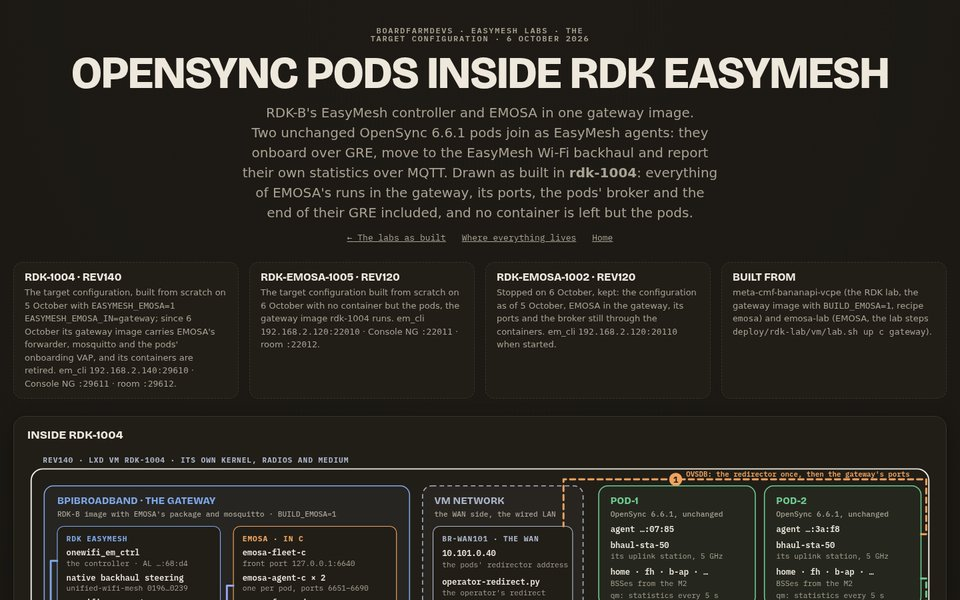
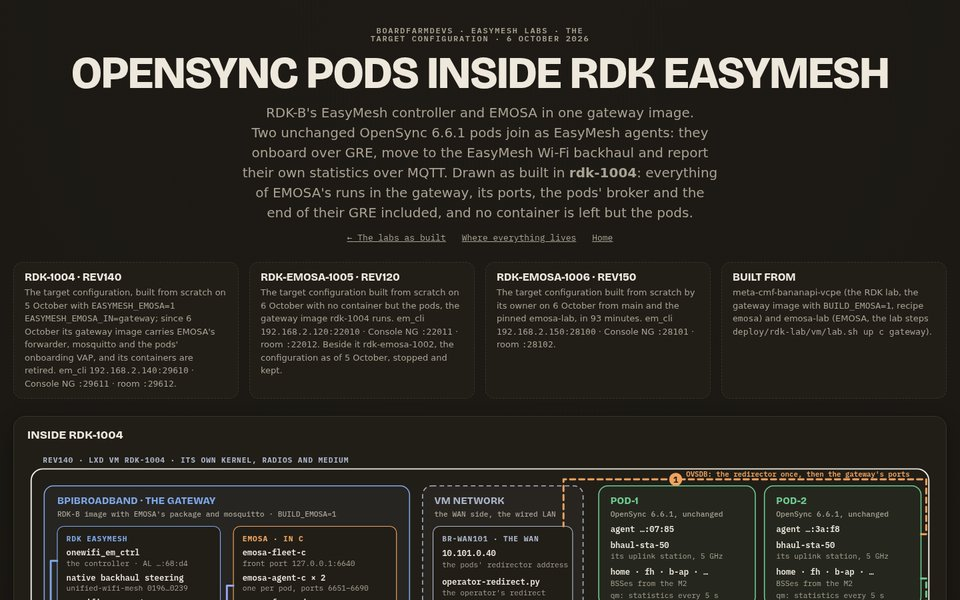
Poster rdk-emosa: every em_agent's journal under its cap with the keys out (0242), rdk-emosa-1006 on rev150; both labs' new gateway and extender images recorded
The timeline: em_agent's document dumps and traces to em's debug channel and
the networks' passphrases out of its journal (unified-wifi-mesh 0242); both
target labs on the new gateway and extender images with no line dropped by
em_ctrl or any em_agent through a redeploy and the catalog. The open item on
the gateway's em_agent is closed. Host cards: rdk-emosa-1006 (rev150, built by
its owner); rdk-emosa-1002 folded into rdk-emosa-1005's card. Ports: 1006's.
manifest: emosa-lab b373ae6, meta-cmf cef71d7; rdk-1004 and rdk-emosa-1005 run
X86EMLTRBPIBB_rdk-next_20261006231122 and X86EMLTRBPIAP_rdk-next_20261006232411
(meta-cmf 4225e97); rdk-emosa-1006 the gateway image before and the 29
September extender image.

Changed region(s): [[0.5, 0.45, 0.7188, 0.6], [0.2812, 0.57, 0.4688, 0.63]]

diff --git a/site/posters/rdk-emosa.html b/site/posters/rdk-emosa.html
@@ -34,10 +34,11 @@
     <div class="host"><h3>rdk-emosa-1005 · rev120</h3><p>The target configuration built from scratch on
     6 October with no container but the pods, the gateway image rdk-1004 runs.
     em_cli <code>192.168.2.120:22010</code> · Console NG <code>:22011</code> ·
-    room <code>:22012</code>.</p></div>
-    <div class="host"><h3>rdk-emosa-1002 · rev120</h3><p>Stopped on 6 October, kept: the
-    configuration as of 5 October, EMOSA in the gateway, its ports and the broker still
-    through the containers. em_cli <code>192.168.2.120:20110</code> when started.</p></div>
+    room <code>:22012</code>. Beside it rdk-emosa-1002, the configuration as of 5 October,
+    stopped and kept.</p></div>
+    <div class="host"><h3>rdk-emosa-1006 · rev150</h3><p>The target configuration built from
+    scratch by its owner on 6 October from main and the pinned emosa-lab, in 93 minutes. em_cli
+    <code>192.168.2.150:28100</code> · Console NG <code>:28101</code> · room <code>:28102</code>.</p></div>
     <div class="host"><h3>Built from</h3><p>meta-cmf-bananapi-vcpe (the RDK lab, the gateway image with
     <code>BUILD_EMOSA=1</code>, recipe <code>emosa</code>) and emosa-lab (EMOSA, the lab steps
     <code>deploy/rdk-lab/vm/lab.sh up c gateway</code>).</p></div>
@@ -323,6 +324,7 @@
             <tr><td><code>169.254.2.1/25</code></td><td>the gateway's GTP: DHCP, the GRE remote</td><td><code>brpodbh</code>, with <code>wifi1.4</code></td></tr>
             <tr><td><code>192.168.2.140:29610/1/2</code></td><td>em_cli · Console NG · the room</td><td>rdk-1004</td></tr>
             <tr><td><code>192.168.2.120:22010/1/2</code></td><td>the same</td><td>rdk-emosa-1005</td></tr>
+            <tr><td><code>192.168.2.150:28100/1/2</code></td><td>the same</td><td>rdk-emosa-1006</td></tr>
             <tr><td><code>192.168.2.120:20110/1/2</code></td><td>the same</td><td>rdk-emosa-1002</td></tr>
           </tbody>
         </table>
@@ -368,6 +370,7 @@
         <div class="result rdk"><b>8</b><span>agents in RDK's controller, the pods' two included</span></div>
       </div>
       <ul class="timeline">
+        <li class="rdk">Every em_agent's journal under its cap, the keys out (7 October)<small>the agents printed whole JSON documents one field to a line (OneWifi's Link Reports, the unassociated-station queries and responses, the device configuration and each subdoc) and every network's passphrase; unified-wifi-mesh 0242 sends them to em's debug channel, the configuration documents as name and size, and takes the keys out. Both labs on the new gateway and extender images (the extenders' first since 29 September): no line dropped by em_ctrl or any em_agent through a redeploy and the catalog, 27 of 27</small></li>
         <li class="umbrella">A second lab in the target configuration (6 October)<small>rdk-emosa-1005 on rev120, built from scratch with no container but the pods: two findings for a fresh gateway fixed on the way (emosa-lab cdfaddc); on the final image its suite passed whole: readiness, the catalog 27 of 27, the four geometry rooms</small></li>
         <li class="rdk">em_ctrl's journal under its cap, its starts included (6 October)<small>its per-message work, the data model's registration and every agent's onboarding to em's debug channel (unified-wifi-mesh 0237 to 0241): through the catalog 101 lines per 30 s on average, 459 at most, of 1000, where it wrote up to 8,500; a controller restart with all eight agents 708 in its busiest 30 s; no line dropped through a redeploy, three starts and the catalog; the M2 line no longer prints passphrases</small></li>
         <li class="rdk">The wired extender's radios renew once, not for ever (6 October)<small>a radio renewed alone waited at the Channel Preference Query and the policy request for siblings already configured, refusing candidate queries; now, as at the steps before, it does not (0239)</small></li>
@@ -388,7 +391,6 @@
       <ul class="timeline">
         <li class="open">No native backhaul steering below the wired extender<small>the controller's model has no parent for a wired agent, so pods on its backhaul BSS are not measured</small></li>
         <li class="open">The wired extender's outage room at its 5 s boundary<small>home-a-wired-extender-loss-recovery wants the extender's clients gone 5 s into its outage; its 6 GHz client needs 3.7 to 4.5 s on both labs: beacon loss, a scan of all fifty 6 GHz channels, and a 1 s association comeback, because the AP still holds its earlier PMF association (a roam sends no deauth). The room then sees it at the next sample, so one sample decides; the boundary is the owner's to set</small></li>
-        <li class="open">The gateway's em_agent at a controller restart<small>passes its own journal cap while every agent onboards again (526, 2,030 and 618 lines dropped in one bring-up, 6 October)</small></li>
         <li class="open">Why the wired extender's radio is renewed alone<small>its em_config times out now and then (seen on two labs, 6 October); 0239 ends the loop that followed, the cause is not known. The gateway's journal is volatile, 16 MB, about 15 minutes: long runs keep their own copy</small></li>
       </ul>
     </div>
